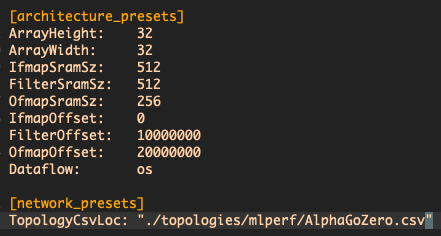
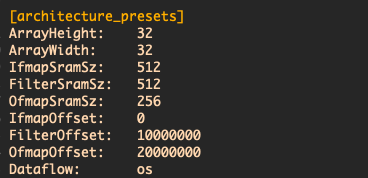
topologies are now flags

Changed region(s): [[0.0, 0.0281, 0.5679, 0.7865], [0.3288, 0.8146, 0.9864, 0.9831], [0.0, 0.8146, 0.3288, 0.9831]]

diff --git a/scale.py b/scale.py
@@ -8,12 +8,13 @@ from absl import app
 FLAGS = flags.FLAGS
 #name of flag | default | explanation
 flags.DEFINE_string("arch_config","./configs/scale.cfg","file where we are getting our architechture from")
+flags.DEFINE_string("network","./topologies/alexnet.csv","topology that we are reading")
 
 
 class scale:
     def __init__(self, sweep = False, save = False):
-        self.sweep = sweep 
-        self.save_space = save 
+        self.sweep = sweep
+        self.save_space = save
 
     def parse_config(self):
         general = 'general'
@@ -22,10 +23,10 @@ class scale:
        # config_filename = "./scale.cfg"
         config_filename = FLAGS.arch_config
         print("Using Architechture from ",config_filename)
-    
+
         config = cp.ConfigParser()
         config.read(config_filename)
-    
+
         ## Read the run name
         self.run_name = config.get(general, 'run_name')
 
@@ -33,43 +34,43 @@ class scale:
         ## Array height min, max
         ar_h = config.get(arch_sec, 'ArrayHeight').split(',')
         self.ar_h_min = ar_h[0].strip()
-    
+
         if len(ar_h) > 1:
             self.ar_h_max = ar_h[1].strip()
         #print("Min: " + ar_h_min + " Max: " + ar_h_max)
-    
+
         ## Array width min, max
         ar_w = config.get(arch_sec, 'ArrayWidth').split(',')
         self.ar_w_min = ar_w[0].strip()
-        
+
         if len(ar_w) > 1:
             self.ar_w_max = ar_w[1].strip()
-    
+
         ## IFMAP SRAM buffer min, max
         ifmap_sram = config.get(arch_sec, 'IfmapSramSz').split(',')
         self.isram_min = ifmap_sram[0].strip()
-        
+
         if len(ifmap_sram) > 1:
             self.isram_max = ifmap_sram[1].strip()
-       
-    
+
+
         ## FILTER SRAM buffer min, max
         filter_sram = config.get(arch_sec, 'FilterSramSz').split(',')
         self.fsram_min = filter_sram[0].strip()
-        
+
         if len(filter_sram) > 1:
             self.fsram_max = filter_sram[1].strip()
-        
-        
+
+
         ## OFMAP SRAM buffer min, max
         ofmap_sram = config.get(arch_sec, 'OfmapSramSz').split(',')
         self.osram_min = ofmap_sram[0].strip()
-        
+
         if len(ofmap_sram) > 1:
             self.osram_max = ofmap_sram[1].strip()
-    
+
         self.dataflow= config.get(arch_sec, 'Dataflow')
-    
+
         ifmap_offset = config.get(arch_sec, 'IfmapOffset')
         self.ifmap_offset = int(ifmap_offset.strip())
 
@@ -81,9 +82,9 @@ class scale:
 
         ## Read network_presets
         ## For now that is just the topology csv filename
-        topology_file = config.get(net_sec, 'TopologyCsvLoc')
-        self.topology_file = topology_file.split('"')[1]     #Config reads the quotes as well 
-
+        #topology_file = config.get(net_sec, 'TopologyCsvLoc')
+        #self.topology_file = topology_file.split('"')[1]     #Config reads the quotes as wells
+        self.topology_file= FLAGS.network
 
     def run_scale(self):
         self.parse_config()
@@ -109,14 +110,14 @@ class scale:
         print("SRAM IFMAP: \t" + str(self.isram_min))
         print("SRAM Filter: \t" + str(self.fsram_min))
         print("SRAM OFMAP: \t" + str(self.osram_min))
-        print("CSV file path: \t" + self.topology_file) 
+        print("CSV file path: \t" + self.topology_file)
         print("Dataflow: \t" + df_string)
         print("====================================================")
 
         net_name = self.topology_file.split('/')[-1].split('.')[0]
         #print("Net name = " + net_name)
         offset_list = [self.ifmap_offset, self.filter_offset, self.ofmap_offset]
-        
+
         r.run_net(  ifmap_sram_size  = int(self.isram_min),
                     filter_sram_size = int(self.fsram_min),
                     ofmap_sram_size  = int(self.osram_min),
@@ -128,19 +129,19 @@ class scale:
                     offset_list = offset_list
                 )
         self.cleanup()
-        print("************ SCALE SIM Run Complete ****************") 
+        print("************ SCALE SIM Run Complete ****************")
 
 
     def cleanup(self):
         if not os.path.exists("./outputs/"):
             os.system("mkdir ./outputs")
-        
+
         net_name = self.topology_file.split('/')[-1].split('.')[0]
 
         path = "./output/scale_out"
         if self.run_name == "":
             path = "./outputs/" + net_name +"_"+ self.dataflow
-        else: 
+        else:
             path = "./outputs/" + self.run_name
 
         if not os.path.exists(path):
@@ -164,7 +165,7 @@ class scale:
         cmd = "mv " + path +"/*dram* " + path +"/layer_wise"
         os.system(cmd)
 
-        if self.save_space == True: 
+        if self.save_space == True:
             cmd = "rm -rf " + path +"/layer_wise"
             os.system(cmd)
 
@@ -179,7 +180,7 @@ class scale:
         arr_h_list = all_arr_dim_list[3:8]
         arr_w_list = all_arr_dim_list[3:8]
         #arr_w_list = list(reversed(arr_h_list))
-        
+
         net_name = self.topology_file.split('/')[-1].split('.')[0]
         for df in data_flow_list:
             self.dataflow = df
